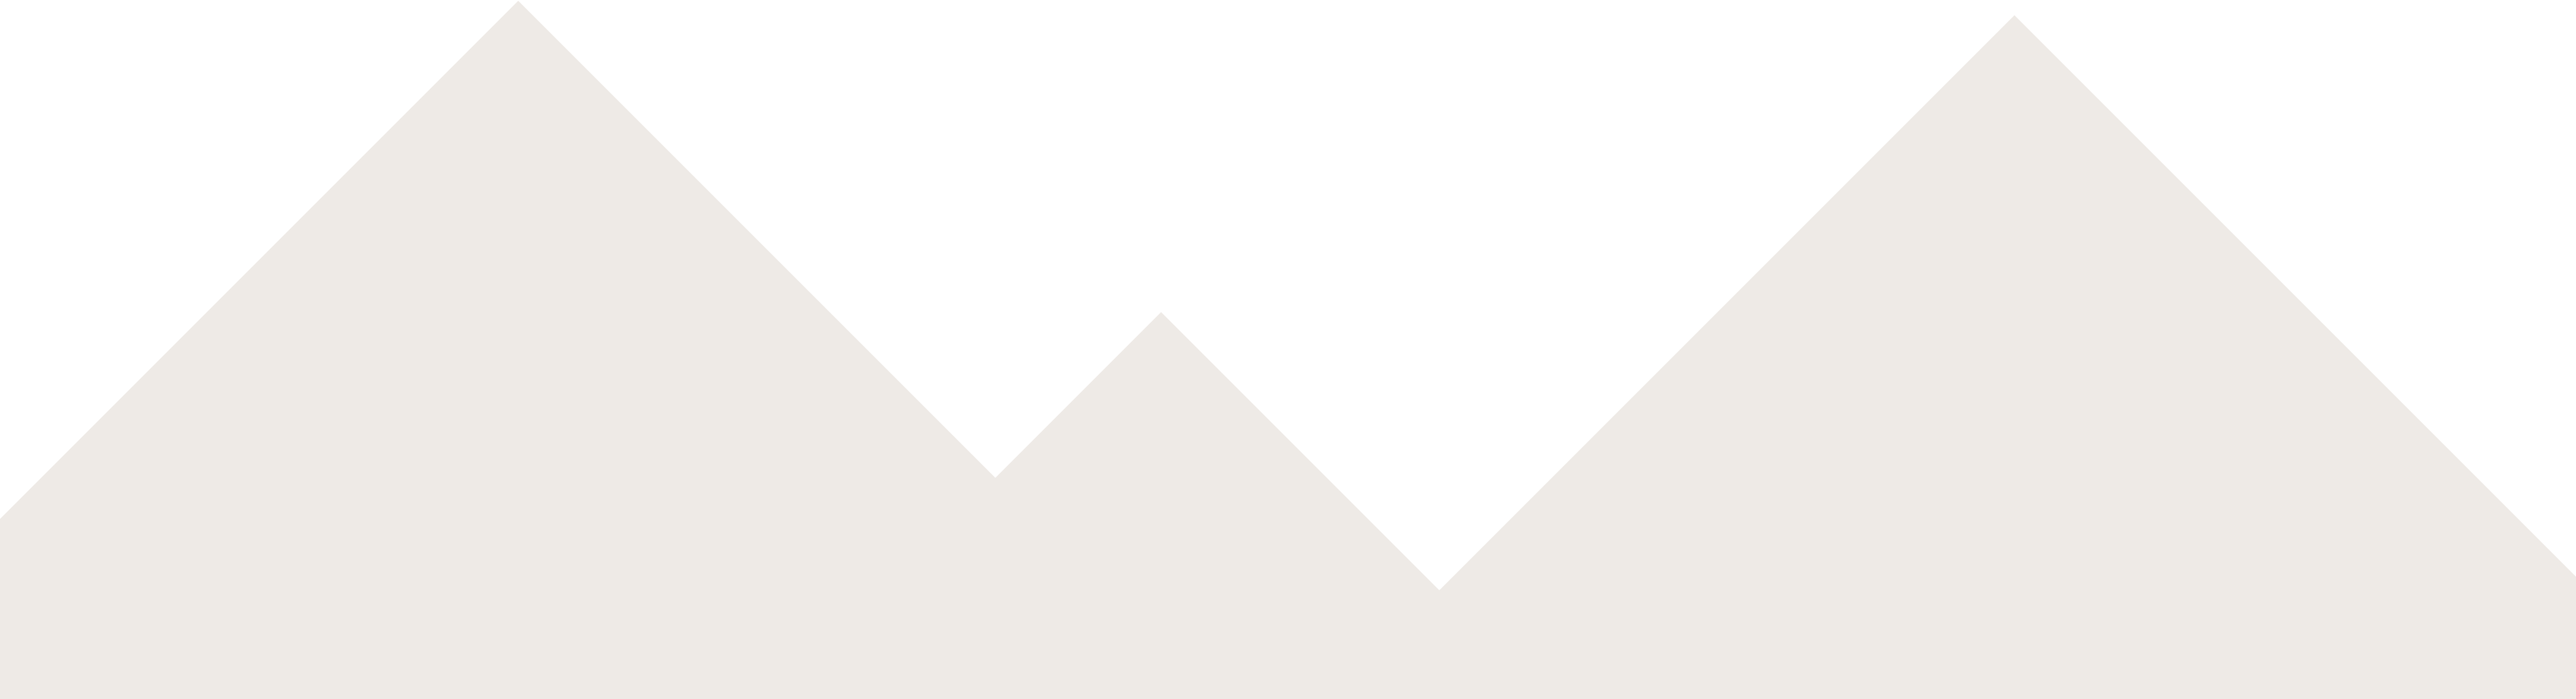
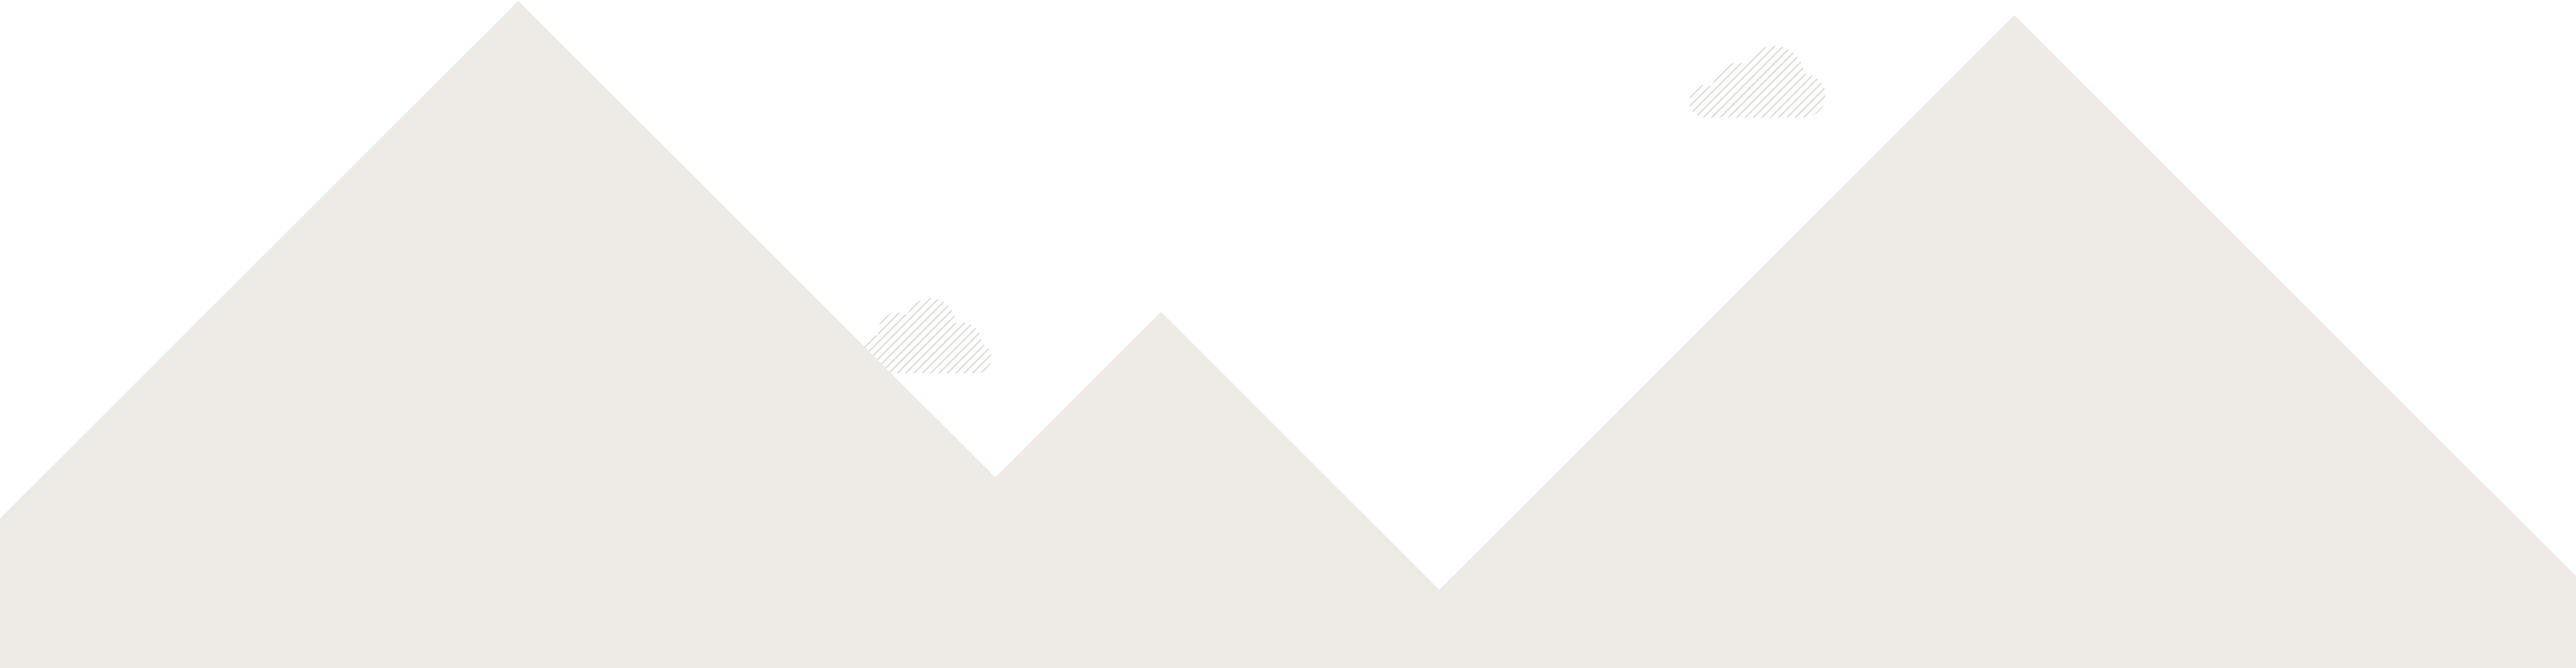
設計更新

diff --git a/aboriginalname/css/layout.css b/aboriginalname/css/layout.css
@@ -71,6 +71,16 @@ background-attachment:fixed;
 padding:100px 15px; 
 }
 
+/*--- section 01 ---*/
+/* .sec01:before {content:""; display:block; width:180px; height:95px;
+position:fixed; right:44px; top:150px;
+background-image:url("../images/bg-cloud.png"); background-repeat:no-repeat;
+background-position:0 -542px;
+} */
+
+
+
+
 /*--- section 02 ---*/
 .sec02 .sectionwpr--center {padding-bottom:120px;}
 .sec02 .sectionwpr--center:before {content:""; width:180px; height:95px;

diff --git a/aboriginalname/index.html b/aboriginalname/index.html
@@ -24,8 +24,9 @@
 <div class="sectionwpr sec01">
 	<div class="band"></div>
     
-    <div style="height:2000px;"></div>
-
+    <div class="sectionwpr--center">
+        <div style="height:2000px;"></div>
+    </div>    
 </div>
 
 
